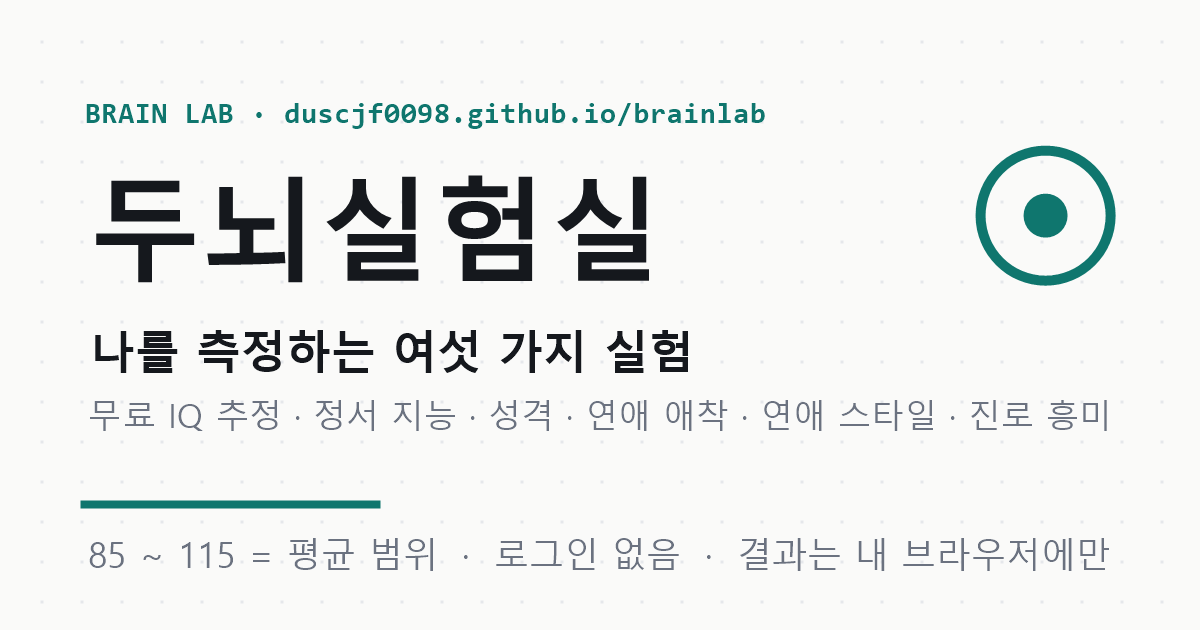
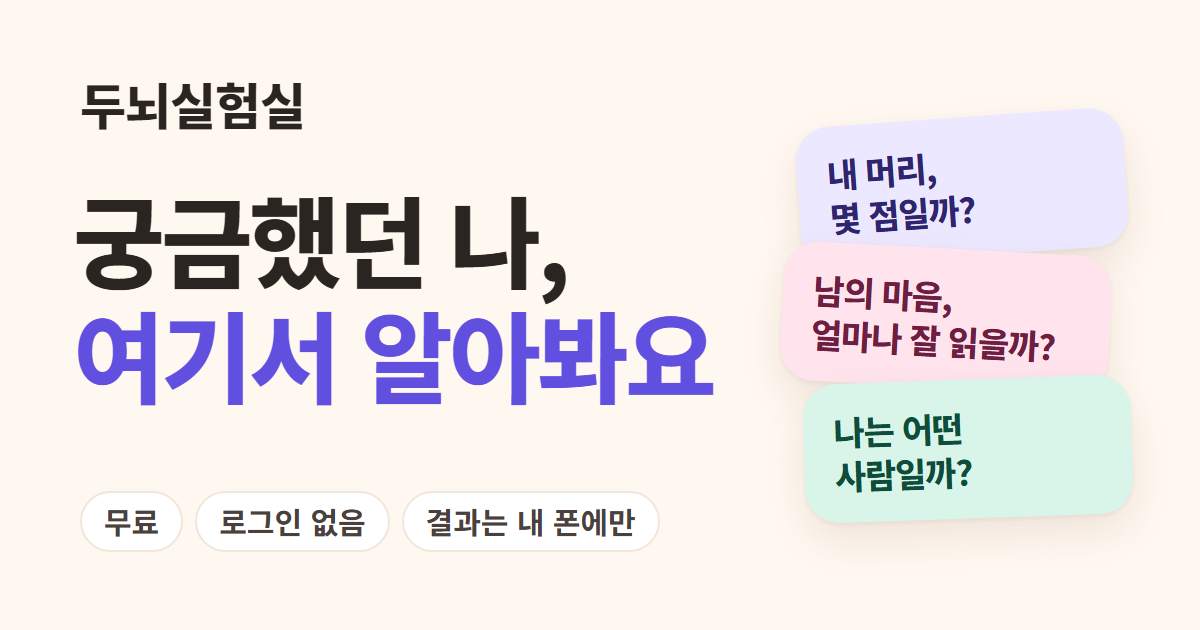
링크 미리보기 이미지와 정적 소개 블록을 C안 디자인으로 바꿈
- og.png(1200×630): 크림 바탕에 사이트 이름, 첫 화면 문구 "궁금했던 나, 여기서 알아봐요"(둘째 줄 보라), 칩 세 개, 검사 색 카드 세 장(인지·정서 지능·성격의 질문형 제목). 카카오톡 말풍선 크기에서도 읽히게 문구 100px, 이름 50px. 이모지·아이콘 없음.
- index.html 정적 블록: 배너 대신 첫 화면과 같은 칩·제목·검사별 파스텔 카드(질문형 제목은 LOOK). 카드 설명은 기존 검색용 문장 그대로. og:image 크기 표시(1200×630)는 그대로.
- 쓰지 않게 된 banner.svg와 .hero-banner, .seo-static 스타일 삭제.
- README: 정적 블록 설명과 og.png 만드는 법 갱신.

diff --git a/index.html b/index.html
@@ -46,20 +46,21 @@
 </header>
 
 <main id="app" class="app">
-  <!-- 자바스크립트가 실행되기 전에 검색 엔진과 미리보기가 읽는 정적 내용. 앱이 뜨면 교체된다. -->
+  <!-- 자바스크립트가 실행되기 전에 검색 엔진과 미리보기가 읽는 정적 내용. 앱이 뜨면 첫 화면으로 바뀌므로 모양은 첫 화면(js/app.js의 renderHome, LOOK)과 맞춘다. -->
   <div class="wrap seo-static">
-    <img class="hero-banner" src="banner.svg" alt="두뇌실험실 배너" width="1200" height="420">
-    <p class="eyebrow mono">무료 · 로그인 없음</p>
-    <h1>두뇌실험실 — 나를 측정하는 여섯 가지 실험</h1>
-    <p class="lead">머리가 얼마나 잘 돌아가는지, 남의 기분을 얼마나 잘 읽는지, 나는 어떤 성격이고 연애할 때는 어떤 사람인지, 어떤 일에 끌리는지. 검사마다 그 능력이 생활 어디에 쓰이는지도 같이 알려 드려요. 결과는 내 폰이나 컴퓨터에만 남아요.</p>
-    <ul class="intro-list">
-      <li><strong>인지 능력 검사</strong> — 규칙 찾기, 언어, 공간, 기억, 속도와 주의. 머리 쓰는 힘 다섯 가지를 20개 과제로 재서 추정 IQ(평균 100)로 보여 줘요. 새 일을 배우는 속도, 글 읽는 힘, 길 찾기, 암산, 운전 중 반응처럼 생활 어디에 쓰이는지도 함께 설명해요.</li>
-      <li><strong>정서 지능 검사</strong> — 상대 기분 알아채기, 기분을 일에 쓰기, 감정 이해하기, 감정 다루기. 상황 판단 기본 24문항, 정밀 48문항.</li>
-      <li><strong>성격 검사</strong> — 외향성, 친화성, 성실성, 정서 민감성, 개방성. 빅파이브 다섯 갈래와 열다섯 가지 세부 특성, 기본 60문항, 정밀 90문항. 각 성격이 일과 관계에서 어떻게 드러나는지 알려 줘요.</li>
-      <li><strong>연애 애착 유형 검사</strong> — 연애에서 불안해지는 정도와 거리를 두는 정도를 재서 안정형, 불안 몰입형, 회피 독립형, 혼란 양가형 중 어디에 가까운지 알아봐요.</li>
-      <li><strong>진로 흥미 유형 검사</strong> — 현실형, 탐구형, 예술형, 사회형, 진취형, 관습형. 홀랜드의 여섯 가지 흥미 유형으로 어떤 일에 끌리는지 알아보는 무료 직업 흥미 테스트예요. 기본 36문항, 정밀 72문항. 상위 두 유형 조합과 어울리는 활동·직업 예시를 보여 주고, 적성(잘하는 힘)이 아니라 흥미(하고 싶은 마음)를 본다는 점도 함께 알려 드려요.</li>
-      <li><strong>연애 스타일 검사</strong> — 첫눈에 반하는 편인지, 친구처럼 천천히 스며드는 편인지. 열정형, 놀이형, 친구형, 실용형, 몰입형, 헌신형, 사랑의 여섯 가지 스타일 중 어디에 가까운지 알아봐요.</li>
-    </ul>
+    <section class="hero">
+      <p class="hero-chips"><span>무료</span><span>로그인 없음</span><span>결과는 내 폰에만</span></p>
+      <h1>궁금했던 나,<br><em>여기서 알아봐요</em></h1>
+      <p class="lead">두뇌실험실에는 나를 측정하는 여섯 가지 실험이 있어요. 머리가 얼마나 잘 돌아가는지, 남의 기분을 얼마나 잘 읽는지, 나는 어떤 성격이고 연애할 때는 어떤 사람인지, 어떤 일에 끌리는지. 검사마다 그 능력이 생활 어디에 쓰이는지도 같이 알려 드려요. 결과는 내 폰이나 컴퓨터에만 남아요.</p>
+    </section>
+    <section class="grid">
+      <a class="test-card tint-cognitive" href="#/test/cognitive"><span class="card-kicker">인지 능력 검사</span><h2>내 머리, 몇 점일까?</h2><p>규칙 찾기, 언어, 공간, 기억, 속도와 주의. 머리 쓰는 힘 다섯 가지를 20개 과제로 재서 추정 IQ(평균 100)로 보여 줘요. 새 일을 배우는 속도, 글 읽는 힘, 길 찾기, 암산, 운전 중 반응처럼 생활 어디에 쓰이는지도 함께 설명해요.</p><span class="card-go" aria-hidden="true">→</span></a>
+      <a class="test-card tint-eq" href="#/test/eq"><span class="card-kicker">정서 지능 검사</span><h2>남의 마음, 얼마나 잘 읽을까?</h2><p>상대 기분 알아채기, 기분을 일에 쓰기, 감정 이해하기, 감정 다루기. 상황 판단 기본 24문항, 정밀 48문항.</p><span class="card-go" aria-hidden="true">→</span></a>
+      <a class="test-card tint-personality" href="#/test/personality"><span class="card-kicker">성격 검사</span><h2>나는 어떤 사람일까?</h2><p>외향성, 친화성, 성실성, 정서 민감성, 개방성. 빅파이브 다섯 갈래와 열다섯 가지 세부 특성, 기본 60문항, 정밀 90문항. 각 성격이 일과 관계에서 어떻게 드러나는지 알려 줘요.</p><span class="card-go" aria-hidden="true">→</span></a>
+      <a class="test-card tint-attachment" href="#/test/attachment"><span class="card-kicker">연애 애착 유형 검사</span><h2>연애할 때 나는 어떤 모습일까?</h2><p>연애에서 불안해지는 정도와 거리를 두는 정도를 재서 안정형, 불안 몰입형, 회피 독립형, 혼란 양가형 중 어디에 가까운지 알아봐요.</p><span class="card-go" aria-hidden="true">→</span></a>
+      <a class="test-card tint-interest" href="#/test/interest"><span class="card-kicker">진로 흥미 유형 검사</span><h2>나한테 맞는 일은 뭘까?</h2><p>현실형, 탐구형, 예술형, 사회형, 진취형, 관습형. 홀랜드의 여섯 가지 흥미 유형으로 어떤 일에 끌리는지 알아보는 무료 직업 흥미 테스트예요. 기본 36문항, 정밀 72문항. 상위 두 유형 조합과 어울리는 활동·직업 예시를 보여 주고, 적성(잘하는 힘)이 아니라 흥미(하고 싶은 마음)를 본다는 점도 함께 알려 드려요.</p><span class="card-go" aria-hidden="true">→</span></a>
+      <a class="test-card tint-love" href="#/test/love"><span class="card-kicker">연애 스타일 검사</span><h2>나는 어떻게 사랑할까?</h2><p>첫눈에 반하는 편인지, 친구처럼 천천히 스며드는 편인지. 열정형, 놀이형, 친구형, 실용형, 몰입형, 헌신형, 사랑의 여섯 가지 스타일 중 어디에 가까운지 알아봐요.</p><span class="card-go" aria-hidden="true">→</span></a>
+    </section>
     <noscript><p class="notice">이 사이트는 자바스크립트가 켜져 있어야 동작합니다. 브라우저 설정에서 자바스크립트를 허용해 주세요.</p></noscript>
   </div>
 </main>

diff --git a/css/style.css b/css/style.css
@@ -68,7 +68,6 @@ p { margin: 0; }
 
 /* ---------- 홈 ---------- */
 .hero { padding: 26px 0 22px; }
-.hero-banner { display: block; width: 100%; height: auto; border-radius: var(--radius); margin-bottom: 20px; box-shadow: var(--shadow); }
 .eyebrow { font-size: 13px; font-weight: 700; color: var(--accent); margin-bottom: 10px; }
 .hero h1 { font-size: 32px; line-height: 1.28; font-weight: 800; letter-spacing: -0.03em; }
 .hero h1 em { font-style: normal; color: var(--accent); }
@@ -288,8 +287,6 @@ p { margin: 0; }
 .actions-share { grid-template-columns: repeat(auto-fit, minmax(120px, 1fr)); }
 .btn-kakao { background: #fee500; color: #191919; border-color: #fee500; }
 .btn-kakao:hover { filter: brightness(.97); }
-.seo-static { padding-top: 28px; }
-.seo-static h1 { font-size: 28px; line-height: 1.25; font-weight: 800; }
 .action-note { min-height: 18px; margin-bottom: 8px; }
 .rs { background: var(--surface); border: 1px solid var(--line); border-radius: 20px; padding: 16px 18px; margin-bottom: 10px; }
 .rs h3 { font-size: 14px; font-weight: 700; margin-bottom: 6px; }

diff --git a/README.md b/README.md
@@ -92,10 +92,10 @@ node serve.cjs
 
 ## 검색 노출과 공유
 
-- `index.html`에 제목·설명·canonical·Open Graph·Twitter 카드·JSON-LD(WebSite)·manifest·favicon이 있고, 앱이 뜨기 전 정적 소개 블록(`.seo-static`)이 검색 엔진과 링크 미리보기에 읽힌다.
+- `index.html`에 제목·설명·canonical·Open Graph·Twitter 카드·JSON-LD(WebSite)·manifest·favicon이 있고, 앱이 뜨기 전 정적 소개 블록(`.seo-static`)이 검색 엔진과 링크 미리보기에 읽힌다. 정적 블록은 앱이 뜨면 첫 화면으로 바뀌므로 첫 화면과 같은 칩·제목("궁금했던 나, 여기서 알아봐요")·검사별 파스텔 카드(질문형 제목은 `js/app.js`의 `LOOK`)로 두고, 카드 설명만 검색어가 들어간 긴 문장으로 쓴다. 예전 배너 `banner.svg`는 2026-10-18에 뺐다.
 - `robots.txt`, `sitemap.xml`(홈 1건, 해시 라우트는 별도 URL이 아님), `og.png`(1200×630), `icon-192.png`/`icon-512.png`, `manifest.webmanifest`(홈 화면에 추가 가능).
-- 이미지는 `make-images.ps1`(System.Drawing)로 만들었다. 문구를 바꾸려면 og-text.txt를 고쳐 다시 실행한다.
-- 2026-10-18에 검사가 여섯 개가 되어 `og.png`를 같은 배치로 다시 그렸다("나를 측정하는 여섯 가지 실험", 부제는 여섯 검사 이름이고 넘치면 부제 글자 크기만 줄인다). OG 이미지만 다시 그리는 `scratchpad/og-only.ps1 -OutFile <png> -TextFile <txt>`(줄 순서: 제목, 부제, 태그, 문구, 아랫줄). 카카오톡은 미리보기 이미지를 캐시하므로 바뀐 이미지가 바로 안 보이면 카카오 개발자 사이트의 공유 디버거에서 캐시를 지운다.
+- 아이콘(`icon-192.png`/`icon-512.png`)은 `make-images.ps1`(System.Drawing)로 만들었다.
+- `og.png`는 2026-10-18에 C안으로 다시 만들었다. 크림 바탕에 사이트 이름, 첫 화면 문구 "궁금했던 나, 여기서 알아봐요"(둘째 줄 보라), 칩 세 개, 검사 색 카드 세 장(인지·정서 지능·성격의 질문형 제목)을 넣고 이모지·아이콘은 넣지 않았다. 카카오톡 말풍선(가로 260px 안팎)에서도 이름과 문구가 읽히게 문구 100px, 이름 50px로 잡았다. 원본은 같은 색 토큰으로 짠 HTML(로컬 전용 `.claude/og/og.html`)이고, `node serve.cjs`를 띄운 뒤 Chrome headless로 찍는다: `chrome --headless --hide-scrollbars --force-device-scale-factor=1 --window-size=1200,630 --virtual-time-budget=15000 --screenshot=og.png http://localhost:5173/.claude/og/og.html`. 카카오톡은 미리보기 이미지를 캐시하므로 바뀐 이미지가 바로 안 보이면 카카오 개발자 사이트의 공유 디버거에서 캐시를 지운다.
 - 구글 서치 콘솔 등록은 소유 확인이 필요하다(HTML 태그 방식: 콘솔이 주는 `<meta name="google-site-verification">` 태그를 `index.html` head에 넣고 커밋). 등록 후 sitemap.xml 제출.
 - 카카오톡: 링크 미리보기는 OG 태그로 동작. "카카오톡 공유" 버튼은 `js/config.js`의 `kakaoKey`(developers.kakao.com 앱의 JavaScript 키)가 있을 때만 보인다. 키 없이도 "링크 복사"로 카톡에 붙여 넣을 수 있다.
   - 콘솔 설정 두 곳이 모두 필요하다 (앱 ID 1608815): ① 앱 > 플랫폼 키 > JavaScript 키 > JavaScript SDK 도메인에 `https://duscjf0098.github.io`(테스트용 `http://localhost:5173`), ② 앱 > 제품 링크 관리 > 웹 도메인에 `https://duscjf0098.github.io`. 카카오 문서상 ②에 없는 도메인의 링크는 쓸 수 없다("등록되어 있지 않은 도메인 또는 스킴은 사용할 수 없습니다"). 2026-10-15에 ②가 비어 있어 같은 날 `https://duscjf0098.github.io`를 등록했다(기본 웹 도메인). 공유 창(sharer.kakao.com 피커)의 미리보기에는 제목·설명·썸네일만 나오고 링크·버튼은 원래 안 보이므로, 링크가 살아 있는지는 실제로 보낸 메시지(예: 나와의 채팅)를 눌러 봐야 확인된다.
